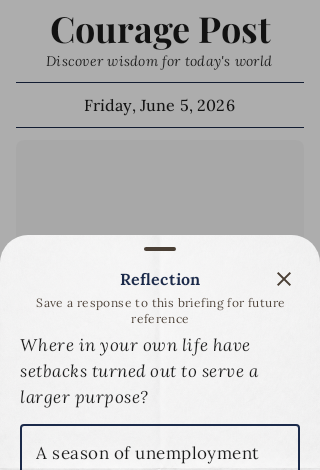
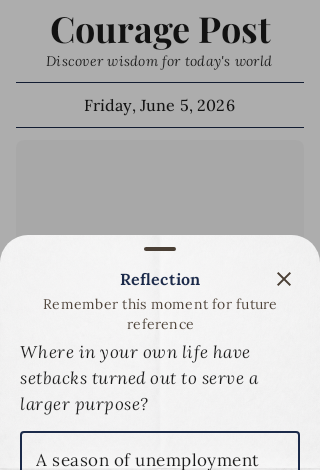
MS-735: Fix reflection note cursor jump and read-only display styling (#630)
Swap the manual scrollState.animateScrollTo(maxValue) run on every
keystroke for BringIntoViewRequester, which asks the framework to
scroll just enough to reveal the field's current bounds instead of
racing the field's own height/cursor recalculation each frame.

Past reflections now render the saved note as plain divider-set text
instead of reusing the editable OutlinedTextField with readOnly=true,
which looked like a tappable box with no way to actually edit it.

Changed region(s): [[0.0625, 0.6255, 0.9375, 0.9234], [0.0938, 0.9532, 0.8125, 1.0]]

diff --git a/composeApp/src/commonMain/kotlin/com/mediasage/ui/ReflectionSheet.kt b/composeApp/src/commonMain/kotlin/com/mediasage/ui/ReflectionSheet.kt
@@ -12,6 +12,8 @@ import androidx.compose.foundation.layout.navigationBarsPadding
 import androidx.compose.foundation.layout.padding
 import androidx.compose.foundation.layout.size
 import androidx.compose.foundation.layout.width
+import androidx.compose.foundation.relocation.BringIntoViewRequester
+import androidx.compose.foundation.relocation.bringIntoViewRequester
 import androidx.compose.foundation.rememberScrollState
 import androidx.compose.foundation.shape.RoundedCornerShape
 import androidx.compose.foundation.verticalScroll
@@ -19,6 +21,7 @@ import androidx.compose.material.icons.Icons
 import androidx.compose.material.icons.filled.Close
 import androidx.compose.material3.AlertDialog
 import androidx.compose.material3.ExperimentalMaterial3Api
+import androidx.compose.material3.HorizontalDivider
 import androidx.compose.material3.Icon
 import androidx.compose.material3.IconButton
 import androidx.compose.material3.MaterialTheme
@@ -170,12 +173,17 @@ private fun ReflectionSheetContent(
 
     val scrollState = rememberScrollState()
     var isFieldFocused by remember { mutableStateOf(false) }
+    val bringIntoViewRequester = remember { BringIntoViewRequester() }
     // The note field grows with its content instead of scrolling internally, so once it's taller
-    // than the visible area the newest typed line can end up behind the keyboard — only while the
-    // field is actually focused, not on the initial load of an existing note, keep the bottom (the
-    // cursor's end) in view as each keystroke grows it further.
-    LaunchedEffect(noteText) {
-        if (isFieldFocused) scrollState.animateScrollTo(scrollState.maxValue)
+    // than the visible area the newest typed line — and the cursor on it — can end up behind the
+    // keyboard. BringIntoViewRequester asks the framework to scroll just enough to reveal the
+    // field's current bounds, rather than a manually computed scrollState.animateScrollTo(maxValue)
+    // on every keystroke — that approach raced the field's own height/cursor recalculation and was
+    // the source of the visible cursor lagging behind newly typed characters once the note wrapped
+    // past one line. Only while the field is actually focused, not on the initial load of an
+    // existing note.
+    LaunchedEffect(noteText, isFieldFocused) {
+        if (isFieldFocused) bringIntoViewRequester.bringIntoView()
     }
 
     Column(
@@ -222,30 +230,30 @@ private fun ReflectionSheetContent(
             modifier = Modifier.padding(top = 8.dp),
         )
         Column(modifier = Modifier.padding(top = 16.dp)) {
-            OutlinedTextField(
-                value = noteText,
-                onValueChange = onNoteChange,
-                readOnly = !editable,
-                placeholder = { Text(stringResource(Res.string.reflect_note_hint)) },
-                colors = OutlinedTextFieldDefaults.colors(
-                    focusedTextColor = bodyColor,
-                    unfocusedTextColor = bodyColor,
-                    disabledTextColor = bodyColor,
-                    focusedBorderColor = titleColor,
-                    unfocusedBorderColor = borderColor,
-                    focusedLabelColor = titleColor,
-                    unfocusedLabelColor = mutedColor,
-                    focusedPlaceholderColor = mutedColor,
-                    unfocusedPlaceholderColor = mutedColor,
-                    cursorColor = titleColor,
-                ),
-                modifier = Modifier.fillMaxWidth().heightIn(min = 120.dp)
-                    .onFocusChanged {
-                        isFieldFocused = it.isFocused
-                        if (it.isFocused) onFieldFocused()
-                    },
-            )
             if (editable) {
+                OutlinedTextField(
+                    value = noteText,
+                    onValueChange = onNoteChange,
+                    placeholder = { Text(stringResource(Res.string.reflect_note_hint)) },
+                    colors = OutlinedTextFieldDefaults.colors(
+                        focusedTextColor = bodyColor,
+                        unfocusedTextColor = bodyColor,
+                        disabledTextColor = bodyColor,
+                        focusedBorderColor = titleColor,
+                        unfocusedBorderColor = borderColor,
+                        focusedLabelColor = titleColor,
+                        unfocusedLabelColor = mutedColor,
+                        focusedPlaceholderColor = mutedColor,
+                        unfocusedPlaceholderColor = mutedColor,
+                        cursorColor = titleColor,
+                    ),
+                    modifier = Modifier.fillMaxWidth().heightIn(min = 120.dp)
+                        .bringIntoViewRequester(bringIntoViewRequester)
+                        .onFocusChanged {
+                            isFieldFocused = it.isFocused
+                            if (it.isFocused) onFieldFocused()
+                        },
+                )
                 MediaSageSurface(
                     onClick = onSave,
                     modifier = Modifier.fillMaxWidth().padding(top = 12.dp, bottom = 20.dp),
@@ -265,6 +273,8 @@ private fun ReflectionSheetContent(
                         )
                     }
                 }
+            } else if (noteText.isNotBlank()) {
+                ReflectionAnswerText(noteText = noteText, bodyColor = bodyColor, dividerColor = borderColor)
             }
         }
     }
@@ -284,6 +294,24 @@ private fun ReflectionSheetHandle(color: Color) {
                 .height(4.dp)
                 .clip(RoundedCornerShape(2.dp))
                 .background(color),
+        )
+    }
+}
+
+/**
+ * The read-only presentation of a past reflection's saved note — plain text, no text-field
+ * chrome, set off from the AI-generated [challenge] above it by a divider and a bolder weight so
+ * the human-written answer visually stands out.
+ */
+@Composable
+private fun ReflectionAnswerText(noteText: String, bodyColor: Color, dividerColor: Color) {
+    Column(modifier = Modifier.fillMaxWidth().padding(bottom = 20.dp)) {
+        HorizontalDivider(color = dividerColor, thickness = 1.dp, modifier = Modifier.padding(bottom = 12.dp))
+        Text(
+            text = noteText,
+            style = MaterialTheme.typography.bodyLarge,
+            fontWeight = FontWeight.SemiBold,
+            color = bodyColor,
         )
     }
 }
